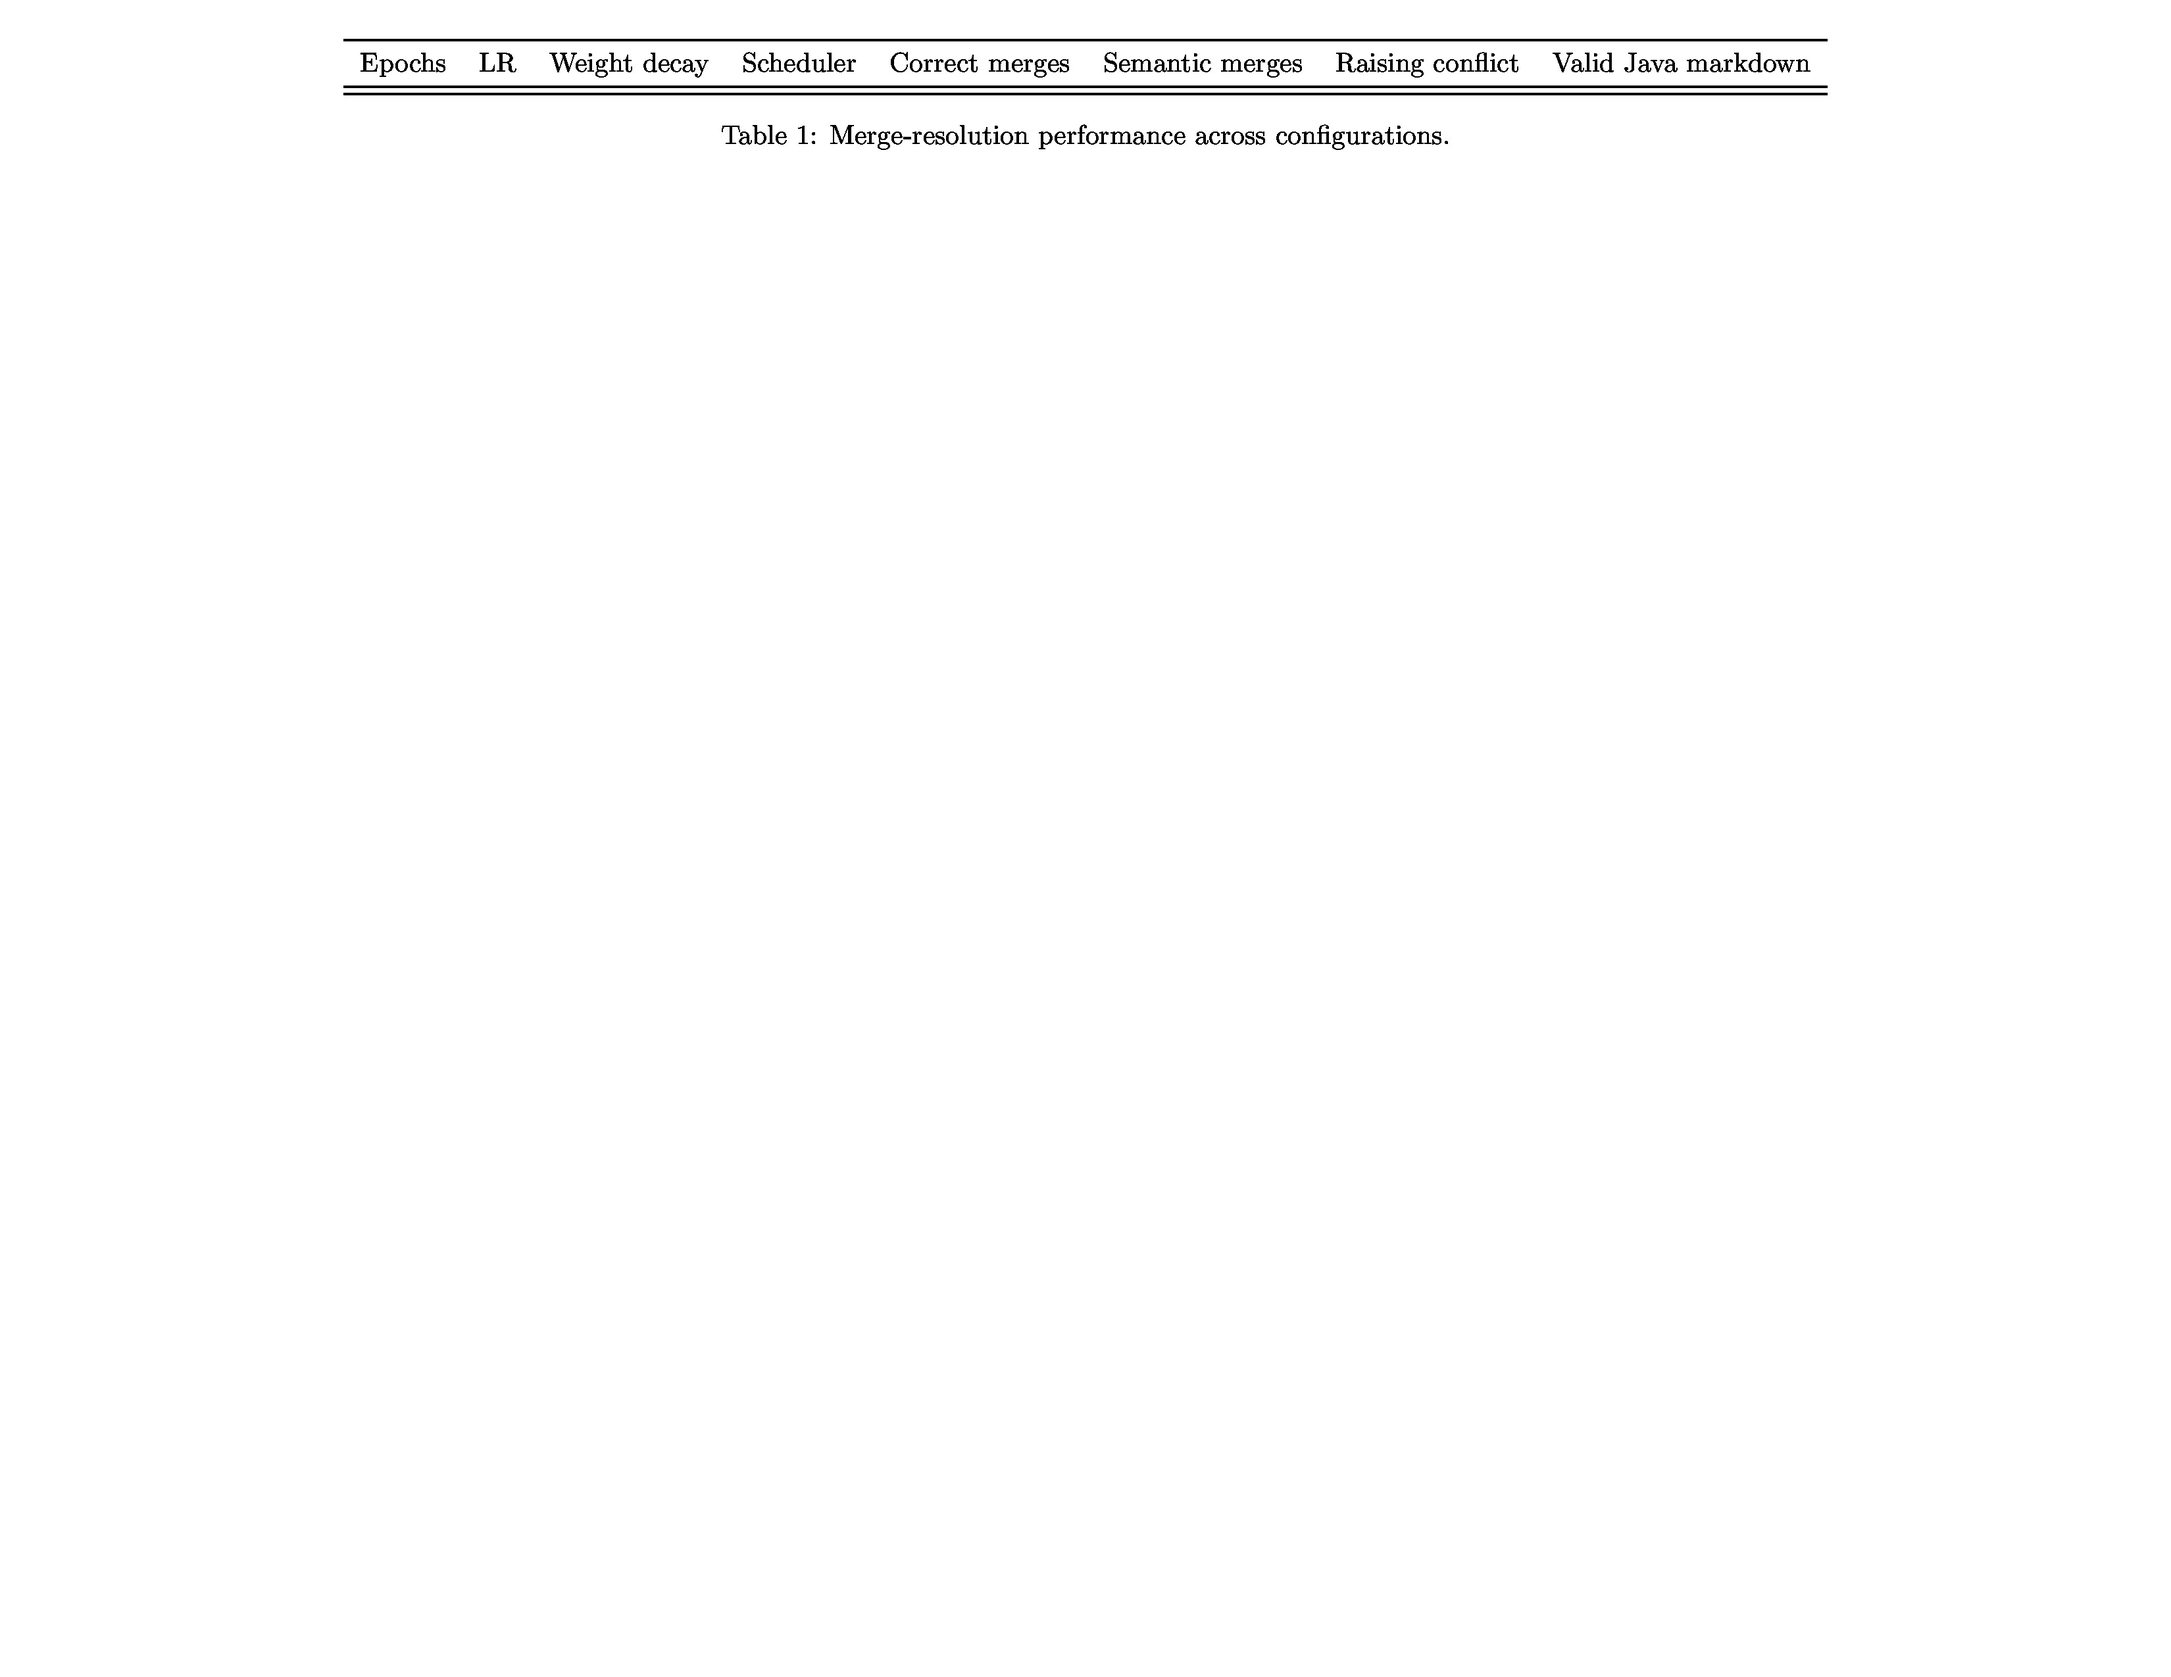
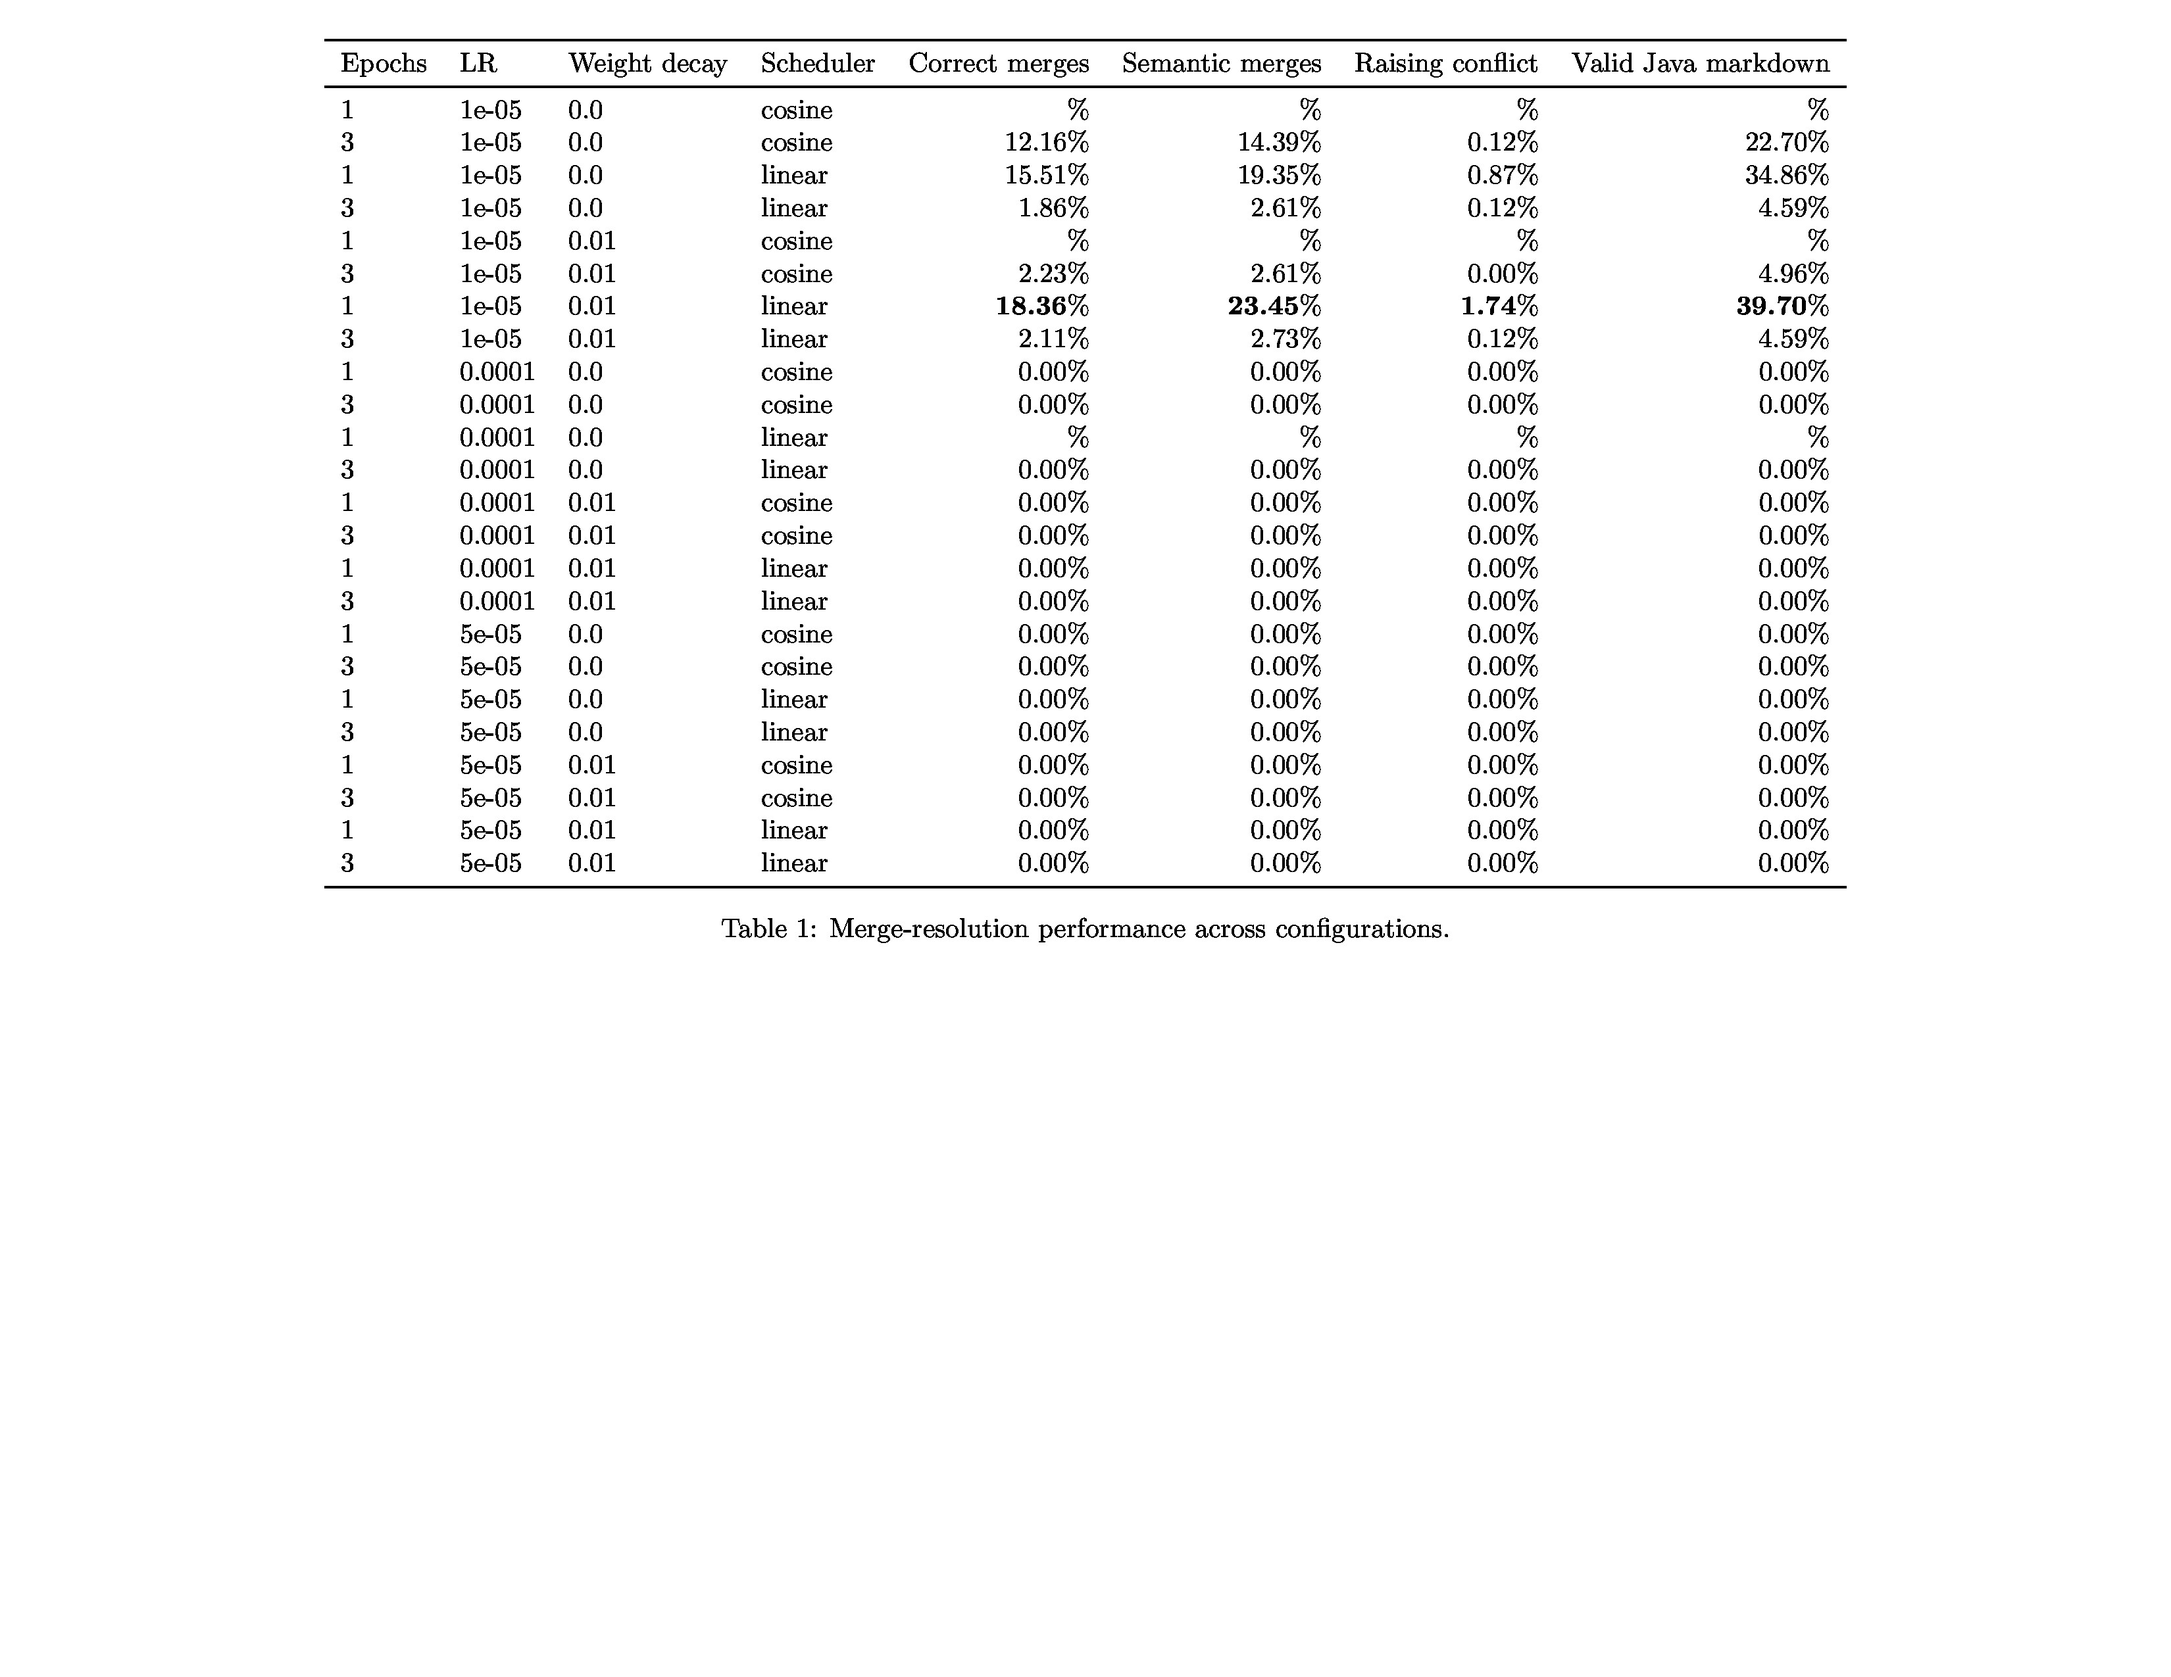
UPdated to the latest table

diff --git a/tables/results_table_sft.tex b/tables/results_table_sft.tex
@@ -4,6 +4,30 @@
 \toprule
 Epochs & LR & Weight decay & Scheduler & Correct merges & Semantic merges & Raising conflict & Valid Java markdown \\
 \midrule
+1 & 1e-05 & 0.0 & cosine & \% & \% & \% & \% \\
+3 & 1e-05 & 0.0 & cosine & 12.16\% & 14.39\% & 0.12\% & 22.70\% \\
+1 & 1e-05 & 0.0 & linear & 15.51\% & 19.35\% & 0.87\% & 34.86\% \\
+3 & 1e-05 & 0.0 & linear & 1.86\% & 2.61\% & 0.12\% & 4.59\% \\
+1 & 1e-05 & 0.01 & cosine & \% & \% & \% & \% \\
+3 & 1e-05 & 0.01 & cosine & 2.23\% & 2.61\% & 0.00\% & 4.96\% \\
+1 & 1e-05 & 0.01 & linear & \textbf{18.36}\% & \textbf{23.45}\% & \textbf{1.74}\% & \textbf{39.70}\% \\
+3 & 1e-05 & 0.01 & linear & 2.11\% & 2.73\% & 0.12\% & 4.59\% \\
+1 & 0.0001 & 0.0 & cosine & 0.00\% & 0.00\% & 0.00\% & 0.00\% \\
+3 & 0.0001 & 0.0 & cosine & 0.00\% & 0.00\% & 0.00\% & 0.00\% \\
+1 & 0.0001 & 0.0 & linear & \% & \% & \% & \% \\
+3 & 0.0001 & 0.0 & linear & 0.00\% & 0.00\% & 0.00\% & 0.00\% \\
+1 & 0.0001 & 0.01 & cosine & 0.00\% & 0.00\% & 0.00\% & 0.00\% \\
+3 & 0.0001 & 0.01 & cosine & 0.00\% & 0.00\% & 0.00\% & 0.00\% \\
+1 & 0.0001 & 0.01 & linear & 0.00\% & 0.00\% & 0.00\% & 0.00\% \\
+3 & 0.0001 & 0.01 & linear & 0.00\% & 0.00\% & 0.00\% & 0.00\% \\
+1 & 5e-05 & 0.0 & cosine & 0.00\% & 0.00\% & 0.00\% & 0.00\% \\
+3 & 5e-05 & 0.0 & cosine & 0.00\% & 0.00\% & 0.00\% & 0.00\% \\
+1 & 5e-05 & 0.0 & linear & 0.00\% & 0.00\% & 0.00\% & 0.00\% \\
+3 & 5e-05 & 0.0 & linear & 0.00\% & 0.00\% & 0.00\% & 0.00\% \\
+1 & 5e-05 & 0.01 & cosine & 0.00\% & 0.00\% & 0.00\% & 0.00\% \\
+3 & 5e-05 & 0.01 & cosine & 0.00\% & 0.00\% & 0.00\% & 0.00\% \\
+1 & 5e-05 & 0.01 & linear & 0.00\% & 0.00\% & 0.00\% & 0.00\% \\
+3 & 5e-05 & 0.01 & linear & 0.00\% & 0.00\% & 0.00\% & 0.00\% \\
 \bottomrule
 \end{tabular}
 \caption{Merge-resolution performance across configurations.}

diff --git a/tables/results_table_sft.md b/tables/results_table_sft.md
@@ -1,2 +1,26 @@
 | Epochs | LR | Weight decay | Scheduler | Correct merges | Semantic merges | Raising conflict | Valid Java markdown |
 | ---: | ---: | ---: | ---: | ---: | ---: | ---: | ---: |
+| 1 | 1e-05 | 0.0 | cosine | % | % | % | % |
+| 3 | 1e-05 | 0.0 | cosine | 12.16% | 14.39% | 0.12% | 22.70% |
+| 1 | 1e-05 | 0.0 | linear | 15.51% | 19.35% | 0.87% | 34.86% |
+| 3 | 1e-05 | 0.0 | linear | 1.86% | 2.61% | 0.12% | 4.59% |
+| 1 | 1e-05 | 0.01 | cosine | % | % | % | % |
+| 3 | 1e-05 | 0.01 | cosine | 2.23% | 2.61% | 0.00% | 4.96% |
+| 1 | 1e-05 | 0.01 | linear | **18.36%** | **23.45%** | **1.74%** | **39.70%** |
+| 3 | 1e-05 | 0.01 | linear | 2.11% | 2.73% | 0.12% | 4.59% |
+| 1 | 0.0001 | 0.0 | cosine | 0.00% | 0.00% | 0.00% | 0.00% |
+| 3 | 0.0001 | 0.0 | cosine | 0.00% | 0.00% | 0.00% | 0.00% |
+| 1 | 0.0001 | 0.0 | linear | % | % | % | % |
+| 3 | 0.0001 | 0.0 | linear | 0.00% | 0.00% | 0.00% | 0.00% |
+| 1 | 0.0001 | 0.01 | cosine | 0.00% | 0.00% | 0.00% | 0.00% |
+| 3 | 0.0001 | 0.01 | cosine | 0.00% | 0.00% | 0.00% | 0.00% |
+| 1 | 0.0001 | 0.01 | linear | 0.00% | 0.00% | 0.00% | 0.00% |
+| 3 | 0.0001 | 0.01 | linear | 0.00% | 0.00% | 0.00% | 0.00% |
+| 1 | 5e-05 | 0.0 | cosine | 0.00% | 0.00% | 0.00% | 0.00% |
+| 3 | 5e-05 | 0.0 | cosine | 0.00% | 0.00% | 0.00% | 0.00% |
+| 1 | 5e-05 | 0.0 | linear | 0.00% | 0.00% | 0.00% | 0.00% |
+| 3 | 5e-05 | 0.0 | linear | 0.00% | 0.00% | 0.00% | 0.00% |
+| 1 | 5e-05 | 0.01 | cosine | 0.00% | 0.00% | 0.00% | 0.00% |
+| 3 | 5e-05 | 0.01 | cosine | 0.00% | 0.00% | 0.00% | 0.00% |
+| 1 | 5e-05 | 0.01 | linear | 0.00% | 0.00% | 0.00% | 0.00% |
+| 3 | 5e-05 | 0.01 | linear | 0.00% | 0.00% | 0.00% | 0.00% |
